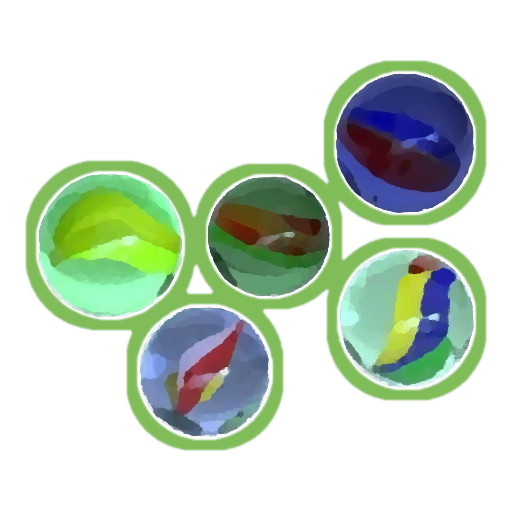
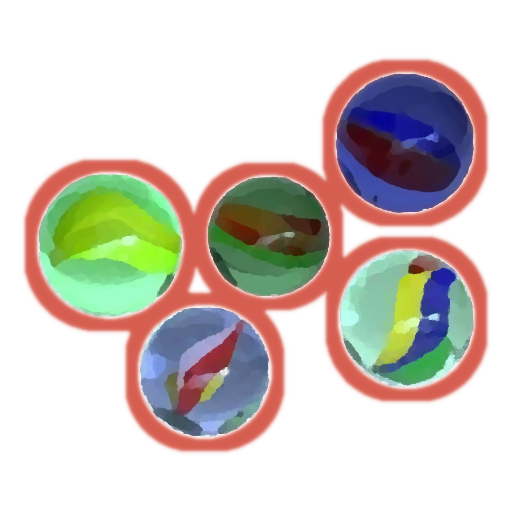
Glass Marbles
Changed Marbles to a red item and fixed bug with level 1.

Changed region(s): [[0.0312, 0.0938, 0.9688, 0.9062]]

diff --git a/TooManyItems/Items/Tier2/GlassMarble.cs b/TooManyItems/Items/Tier2/GlassMarble.cs
@@ -9,11 +9,21 @@ namespace TooManyItems
     {
         public static ItemDef itemDef;
 
-        // Gain 1 (+1) damage per level.
-        public static ConfigurableValue<int> damagePerLevelPerStack = new(
+        // Gain 2.5 (+2.5) damage per level.
+        public static ConfigurableValue<bool> isEnabled = new(
+            "Item: Glass Marbles",
+            "Enabled",
+            true,
+            "Whether or not the item is enabled.",
+            new List<string>()
+            {
+                "ITEM_GLASSMARBLES_DESC"
+            }
+        );
+        public static ConfigurableValue<float> damagePerLevelPerStack = new(
             "Item: Glass Marbles",
             "Damage Increase",
-            1,
+            2.5f,
             "Amount of base damage gained per level per stack.",
             new List<string>()
             {
@@ -44,7 +54,7 @@ namespace TooManyItems
 
             ItemTierCatalog.availability.CallWhenAvailable(() =>
             {
-                if (itemDef) itemDef.tier = ItemTier.Tier2;
+                if (itemDef) itemDef.tier = ItemTier.Tier3;
             });
 
             itemDef.pickupIconSprite = Assets.bundle.LoadAsset<Sprite>("GlassMarbles.png");
@@ -67,7 +77,7 @@ namespace TooManyItems
                     int count = sender.inventory.GetItemCount(itemDef);
                     if (count > 0)
                     {
-                        args.levelDamageAdd += count * damagePerLevelPerStack.Value;
+                        args.levelDamageAdd += count * damagePerLevelPerStack.Value + damagePerLevelPerStack.Value;
                     }
                 }
             };
